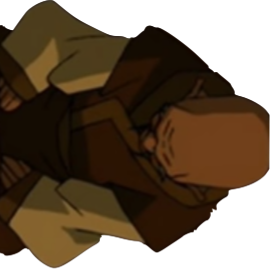
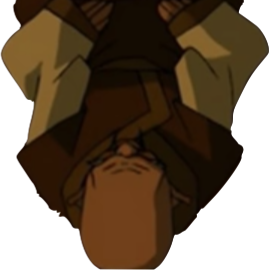
rotated board, changed background color, added satisfying shadows to the game :)

diff --git a/style.css b/style.css
@@ -5,10 +5,12 @@
     text-align: center;
 }
 body {
-    background-color: darkolivegreen;
+    /* background-color: darkolivegreen; */
+    background-color: saddlebrown;
+    /* background-color: sienna; */
+    font-family: fantasy;
 
 }
-
 
 .board {
     /* JUST HAD AN IDEA. MAKE THE BOARD REALLY WIDE AND 
@@ -16,15 +18,16 @@ body {
     TWO CHARACTERS IT WILL SHOW SITTING AT THE BOARD
     .GRID IS ENOUGH TO BE THE BOARD ON ITS OWN */
     position: absolute;
-    top: 20%;
-    left: 10%;
+    top: 10%;
+    left: 20%;
     background-color: grey;
     /* width: 80%;
     height: 60%; */
-    width: 900px;
-    height: 500px;
+    width: 500px;
+    height: 898px;
     display: flex;
     align-items: center;
+    flex-direction: column; /* this was magic for board rotating */
     justify-items: center;
     border: 10px solid black;
     border-radius: 30px;
@@ -66,11 +69,17 @@ body {
     /* can choose later to reformat based on 8x8 grid with "display-none" for the edge spaces. */
     /* for now that's not worth the effort...maybe never. */
 }
+.gameSpaces {
+    border-left: 1px solid black;
+    border-top: 1px solid black;
+}
 .pieces {
     background-color: darkgreen;
     width: 100%;
     height: 100%;
     border-radius: 50%;
+    border-right: 1px solid black;
+    border-bottom: 1px solid black;
 }
 
 /* .empty {    value = 0 for a space with no piece, piece matches background 
@@ -79,9 +88,13 @@ body {
 
 .white {    /* value = 1 for a space with no piece, piece matches background */ 
     background-color: white;
+    border-right: 1px solid black;
+    border-bottom: 1px solid black;
 }
 
 .black {    /* value = 2 for a space with no piece, piece matches background */ 
     background-color: black;
+    border-right: 1px solid white;
+    border-bottom: 1px solid white;
 }
 

diff --git a/app.js b/app.js
@@ -12,6 +12,8 @@ let player2 = false;
 let player1Turn = false;
 let player2Turn = false;
 
+let canPlace = false;
+
 // ==============================================================================================================
 // START Declare neighbor direction arrays. Left-right, top-bottom.
 
@@ -109,10 +111,15 @@ class Piece {
 
                 if(this.x === 0 && this.y !== 9) {
                     spaceDiv.innerText = this.y;
+                    // spaceDiv.style.borderBottom = "1px solid black";
                 } else if (this.y === 0 && this.x !== 9) {
                     spaceDiv.innerText = this.x;
-                }
-            }
+                    // spaceDiv.style.borderRight = "1px solid black";
+                } 
+                // else if(this.x === 1 && this.y !== 0 && this.y !== 9) {
+                //     spaceDiv.style.borderTop = "1px solid black";
+                // }
+            } 
             // spaceDiv.innerText = `${this.x},${this.y}`;
         } else {
             // if piece is not an edge space, adds a piece with an event listener

diff --git a/index.html b/index.html
@@ -8,6 +8,11 @@
 </head>
 <body>
     <h1>Welcome to Iroh-thello!</h1>
+    <div class="scores">
+        <h2 class="player1score"></h2>        
+        <h2 class="player2score"></h2>        
+
+    </div>
     <div class="board">
         <img src="pics/iroh.png" alt="" class="peeps">
         <div class="grid"></div>
